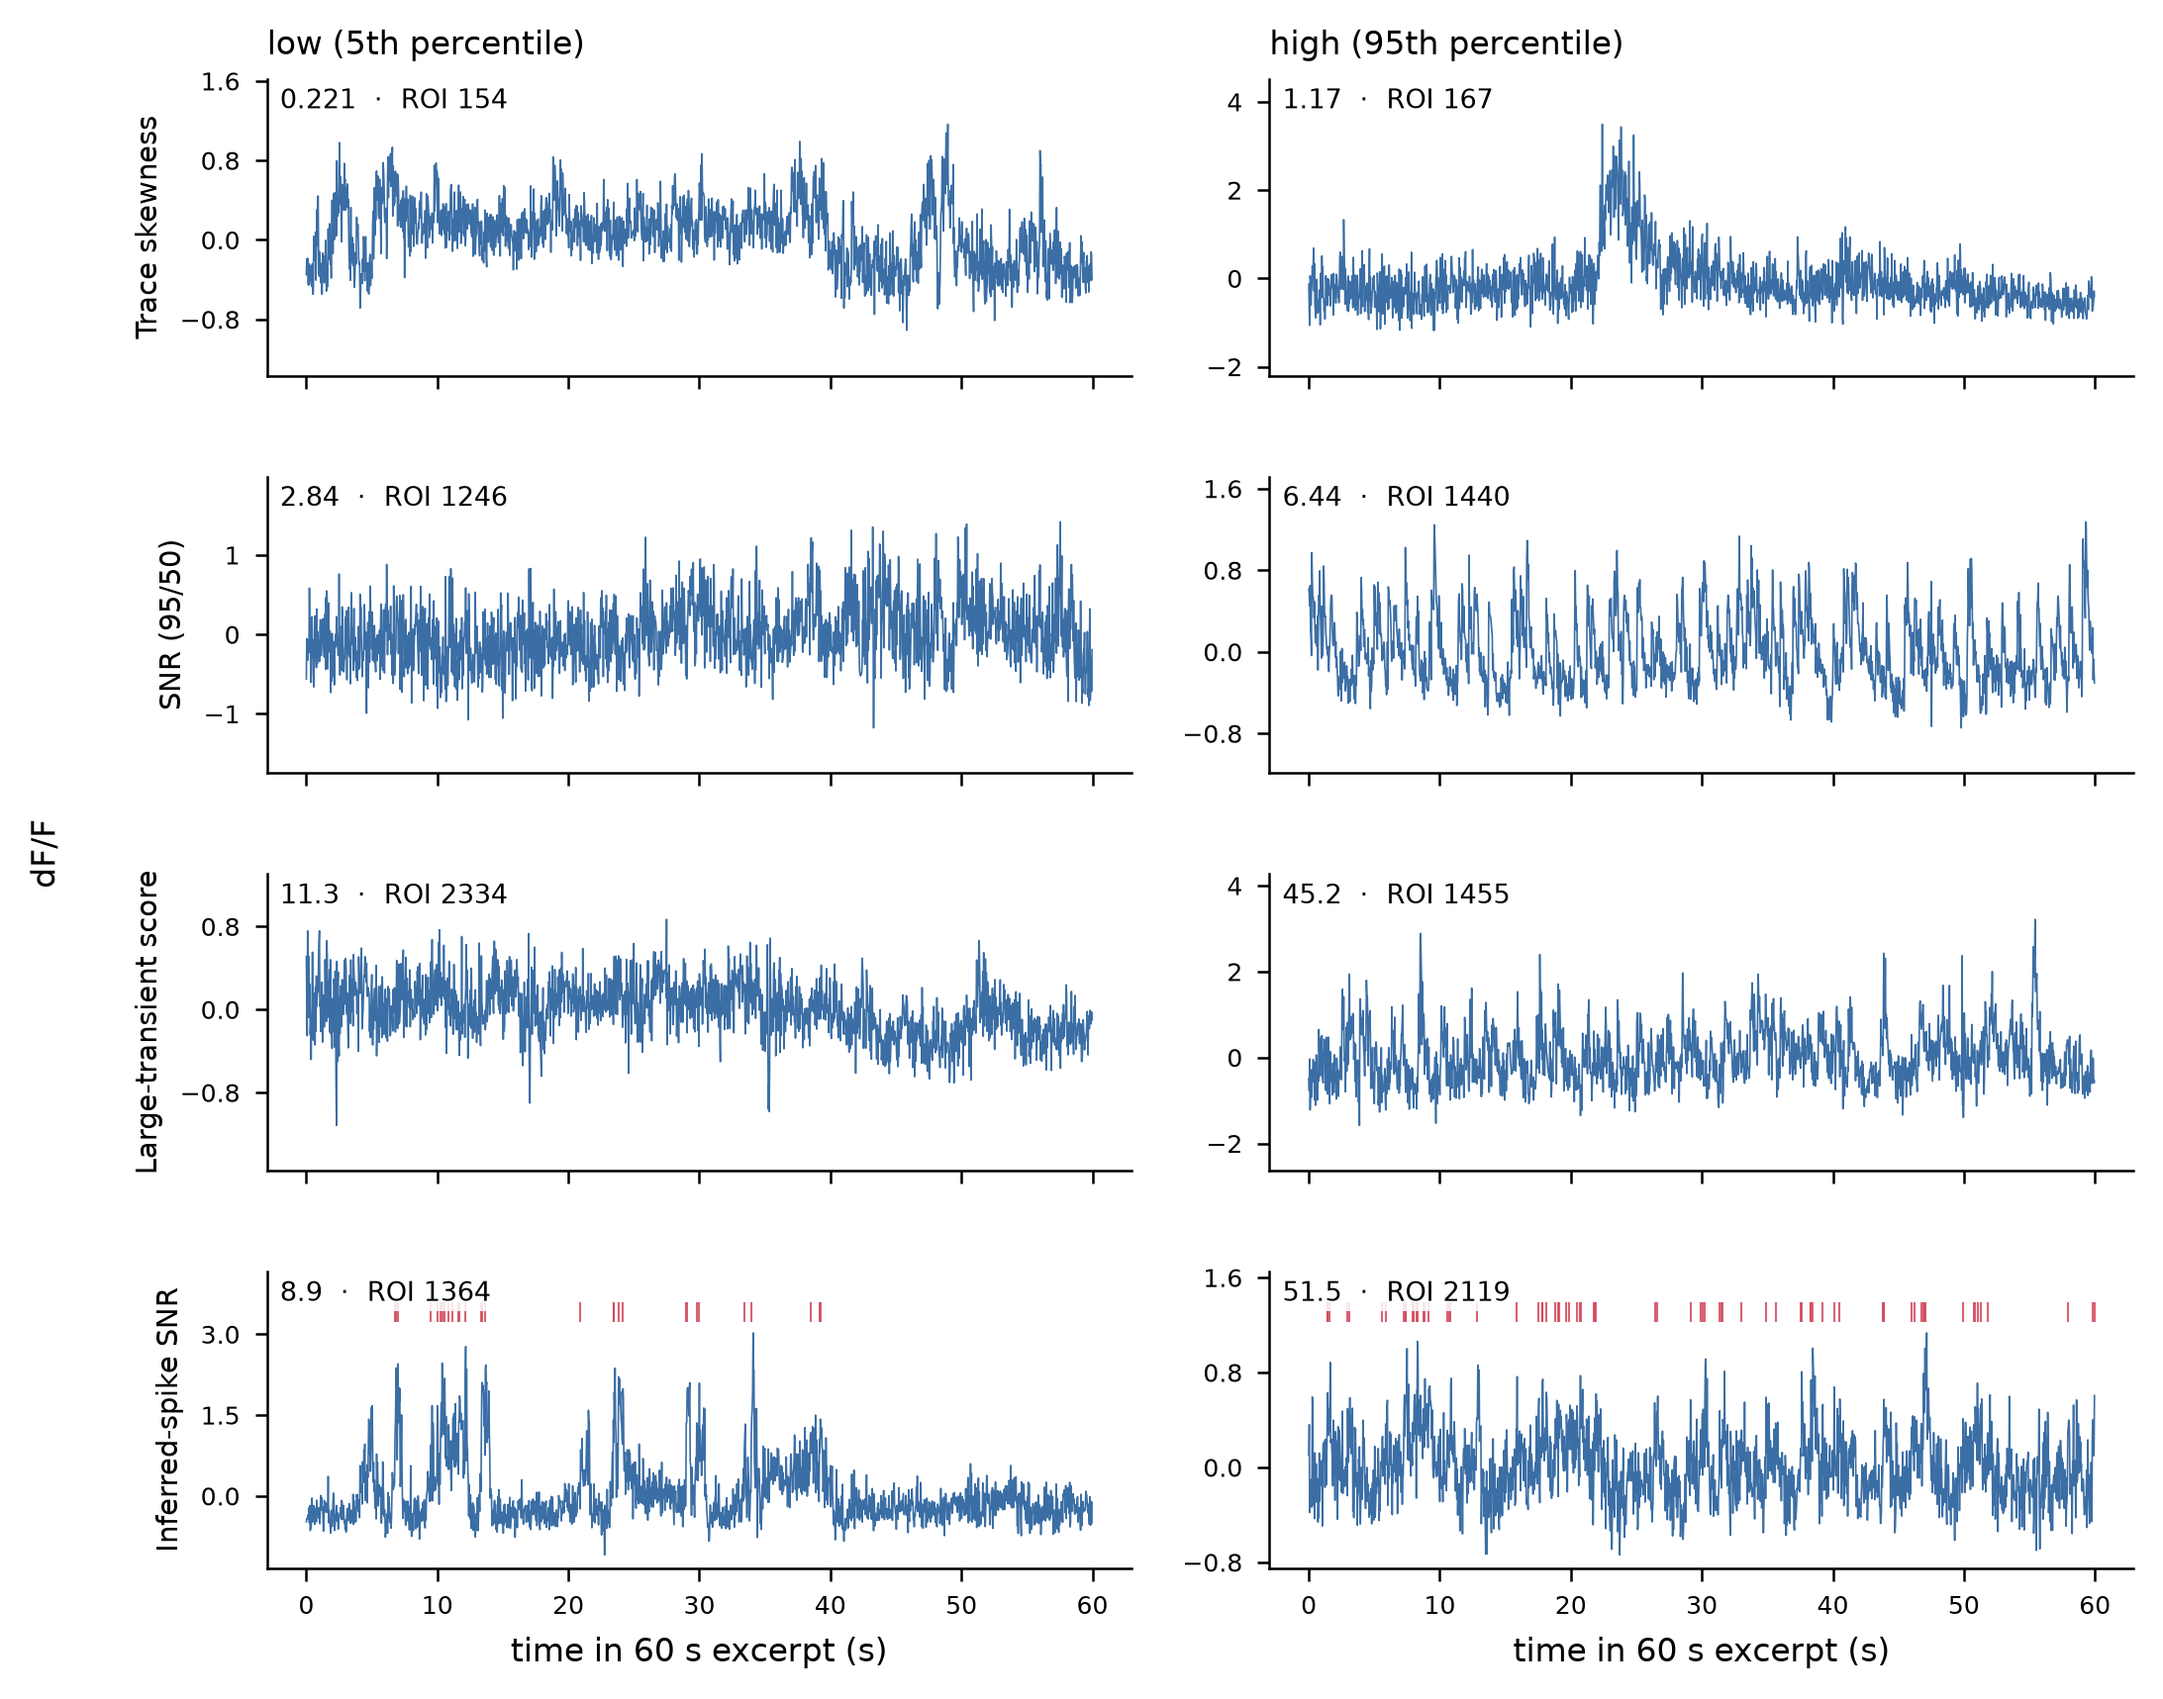
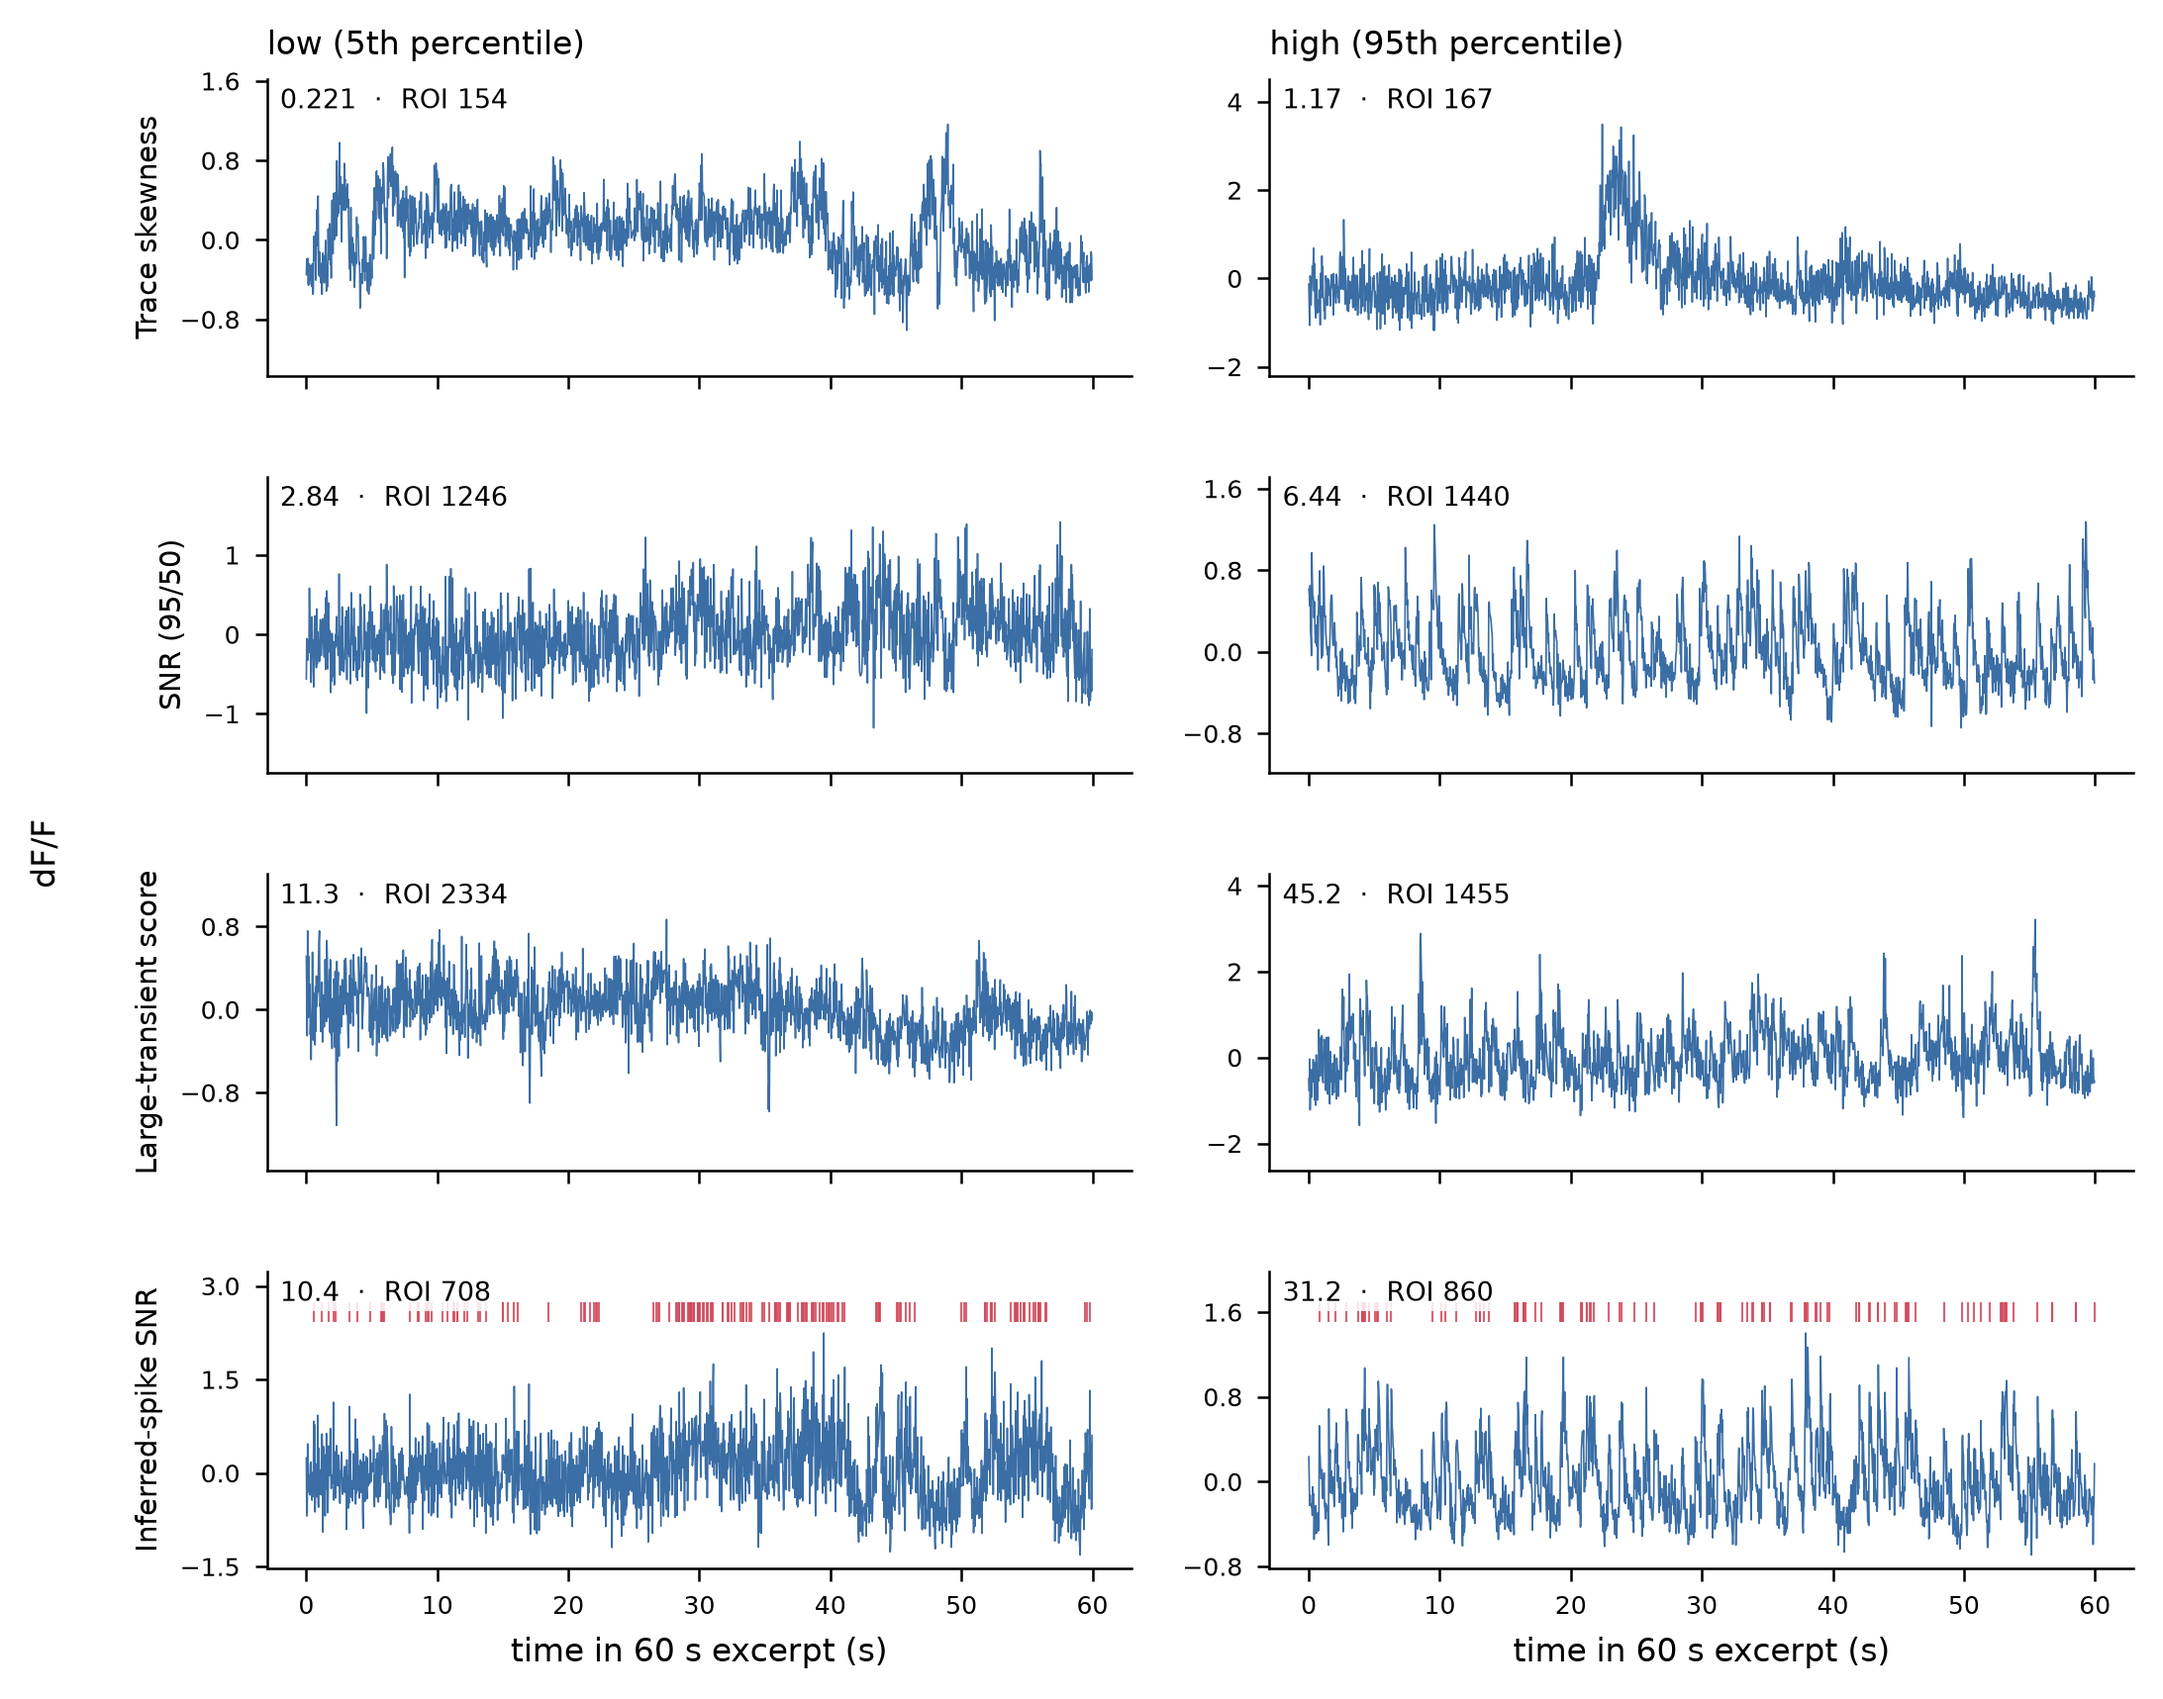
Docs: pronunciation note; inferred spike SNR exemplars from the current definition
README and docs home open with the pronunciation and meaning of adroit. The metrics-page figure chose its inferred spike SNR examples with the earlier event-averaged definition, which ranks ROIs differently from the regression-kernel SNR the reviewer now reports (Spearman 0.28 on this session); re-chosen at the 5th and 95th percentiles of the current metric (ROI 708, 10.4; ROI 860, 31.2). Other rows unchanged. The definition text no longer says the SNR grows with event count.

diff --git a/docs/metrics.md b/docs/metrics.md
@@ -35,7 +35,7 @@ see [Morphology metrics](interface-reference.md#morphology-metrics) and
 | SNR: 95/50 percentile | `snr_95_50` | Robust transient amplitude (95th − 50th percentile of dF/F) ÷ residual noise | Higher = stronger transients relative to noise |
 | SNR: CaImAn (large-transient score) | `caiman_exceptional_event_snr` | Exceptional-event score after CaImAn | Higher = stronger large transients |
 | **Inferred spikes** | | | |
-| Inferred spike SNR | `inferred_spike_snr` | Peak of the ROI's regression-estimated transient minus its pre-event mean, ÷ SD of its pre-event values; grows with event count ([definition](interface-reference.md#inferred-spike-metrics)) | Higher = events stand out from baseline |
+| Inferred spike SNR | `inferred_spike_snr` | Peak of the ROI's regression-estimated transient minus its pre-event mean, ÷ SD of its pre-event values; for a given ROI more events make the estimate less noisy, but threshold crossings caused by noise lower it ([definition](interface-reference.md#inferred-spike-metrics)) | Higher = events stand out from baseline |
 | Inferred spike rise tau | `inferred_spike_rise_tau_seconds` | Time between the 10% and 90% crossings of the regression-estimated transient | n/a |
 | Inferred spike decay tau | `inferred_spike_decay_tau_seconds` | Time constant of an exponential fitted to the regression-estimated transient from its peak | n/a |
 

diff --git a/docs/interface-reference.md b/docs/interface-reference.md
@@ -256,7 +256,9 @@ event-triggered average. At least 3 frames above the threshold are needed.
 
 - **Inferred spike SNR:** (peak of *k* − mean of *k* before the event) ÷ SD of *k* before
   the event. The pre-event values of *k* should be near zero, so their spread measures
-  how noisy the estimate is; the SNR grows with the number of events.
+  how noisy the estimate is. For the same transient, more events give a less noisy
+  estimate and a higher SNR; threshold crossings caused by noise add events that carry no
+  transient and lower it.
 - **Rise tau:** time between the 10% and 90% crossings on the rising side of *k*, found
   backwards from the peak and interpolated between frames.
 - **Decay tau:** *k* from its peak is fitted with *b* + *A* exp(−*t*/τ), where *b* is the

diff --git a/docs/index.md b/docs/index.md
@@ -1,5 +1,7 @@
 # adROIt-qc
 
+*adroit (adjective), /əˈdrɔɪt/, "uh-DROYT": skillful and quick, especially when handling something difficult.*
+
 This repository builds an interactive, self-contained reviewer for region-of-interest
 quality control in two-photon calcium imaging. You point it at a processed session and
 it writes a single HTML file that embeds the field-of-view images, the per-ROI masks,

diff --git a/README.md b/README.md
@@ -1,5 +1,7 @@
 # adROIt-qc
 
+*adroit (adjective), /əˈdrɔɪt/, "uh-DROYT": skillful and quick, especially when handling something difficult.*
+
 adROIt-qc builds interactive, self-contained ROI quality-control
 reviewers from two-photon calcium imaging sessions, whatever software produced
 the segmentation.
